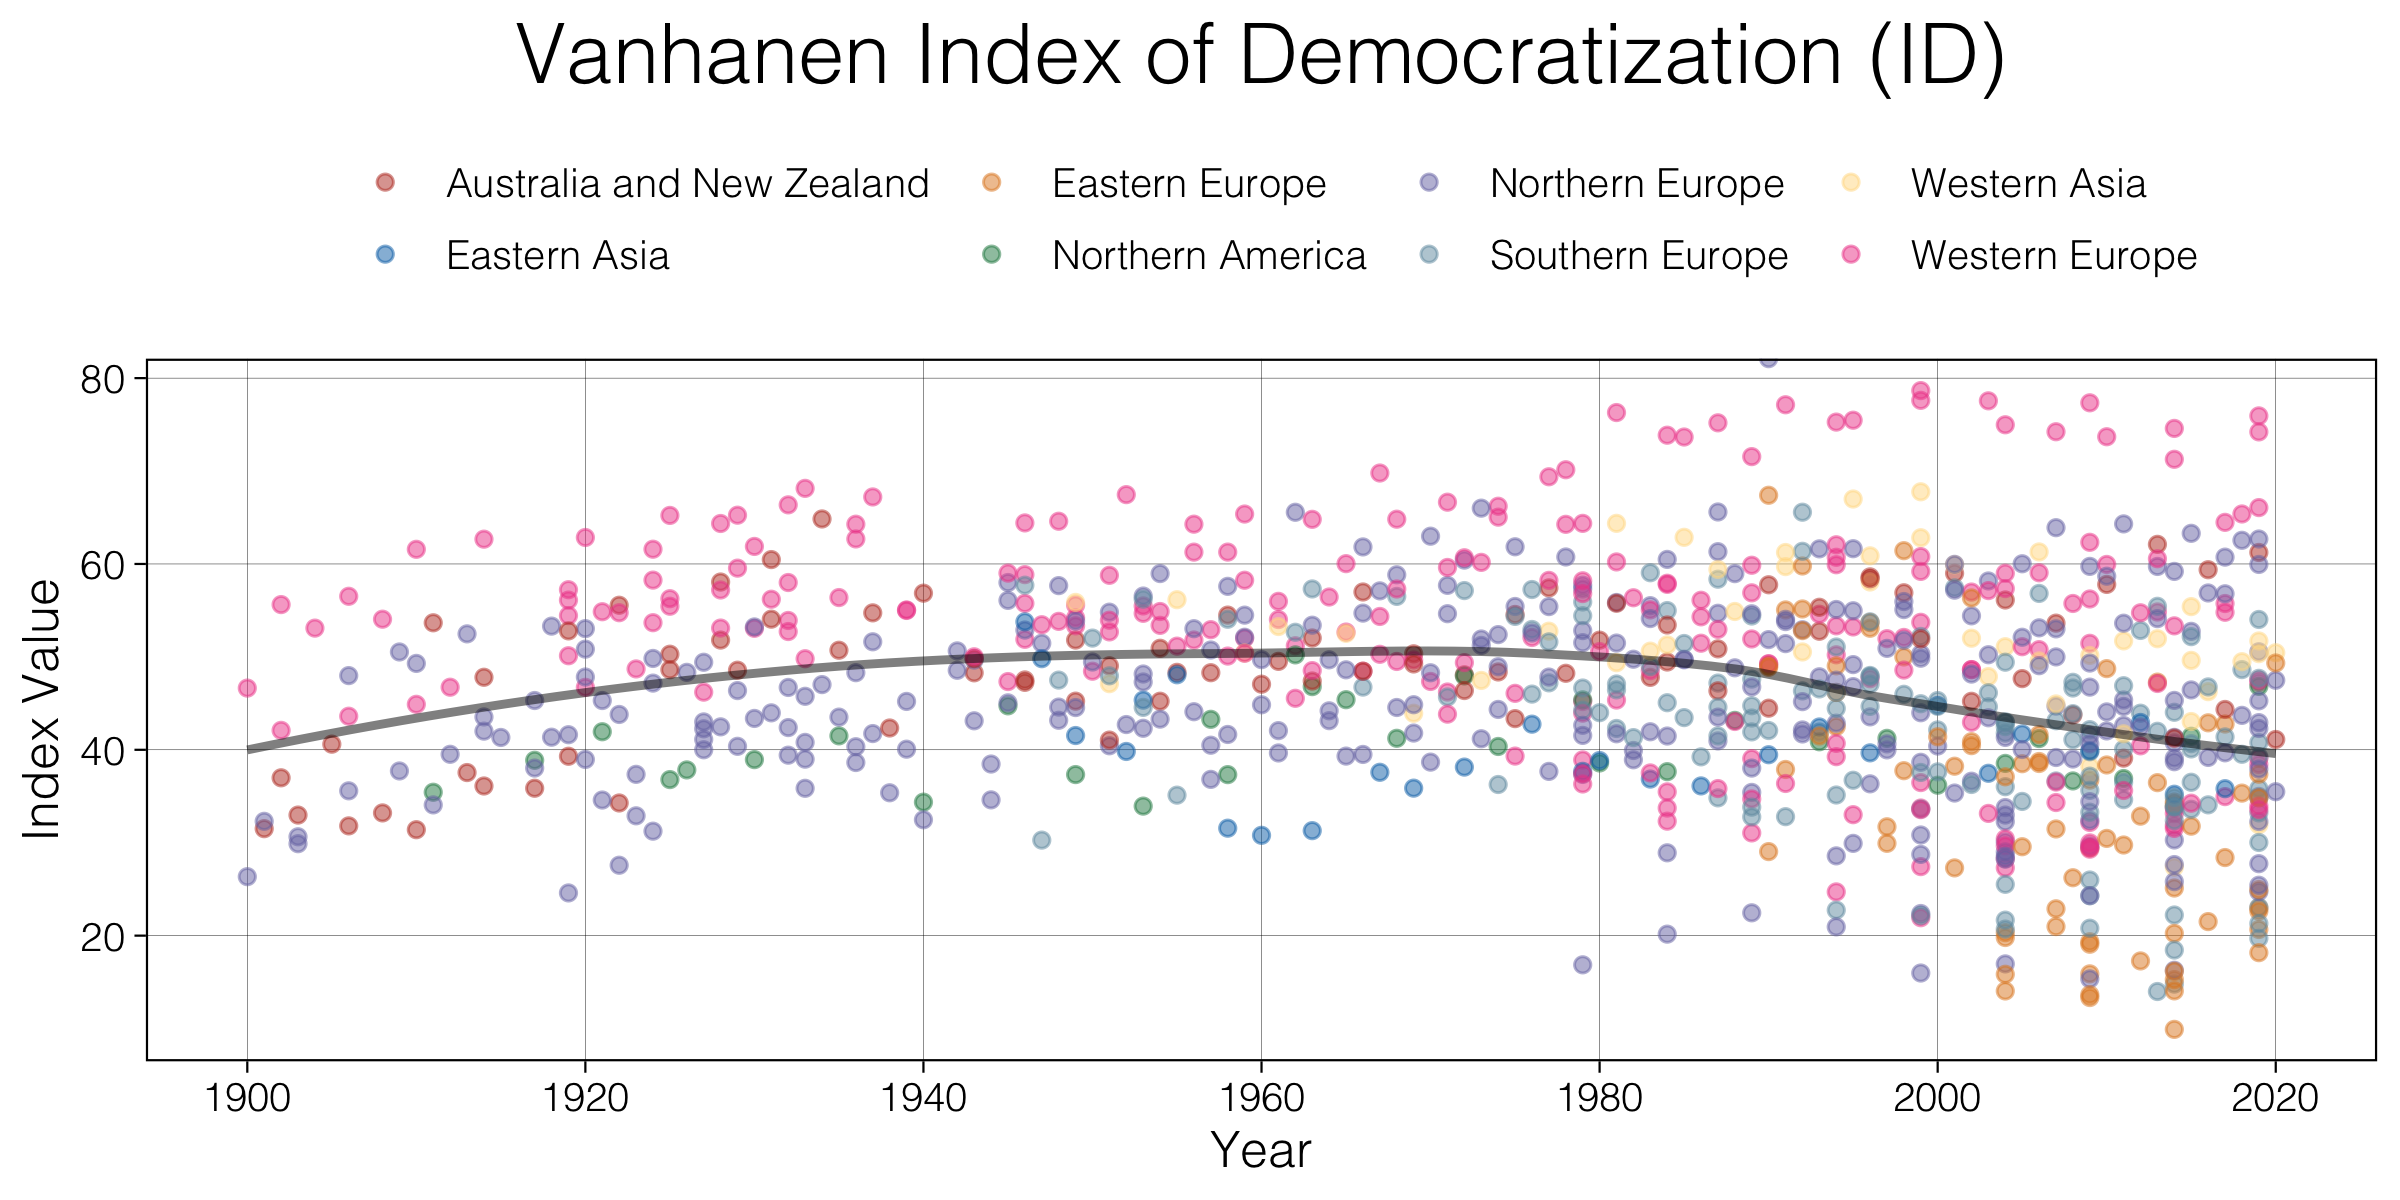
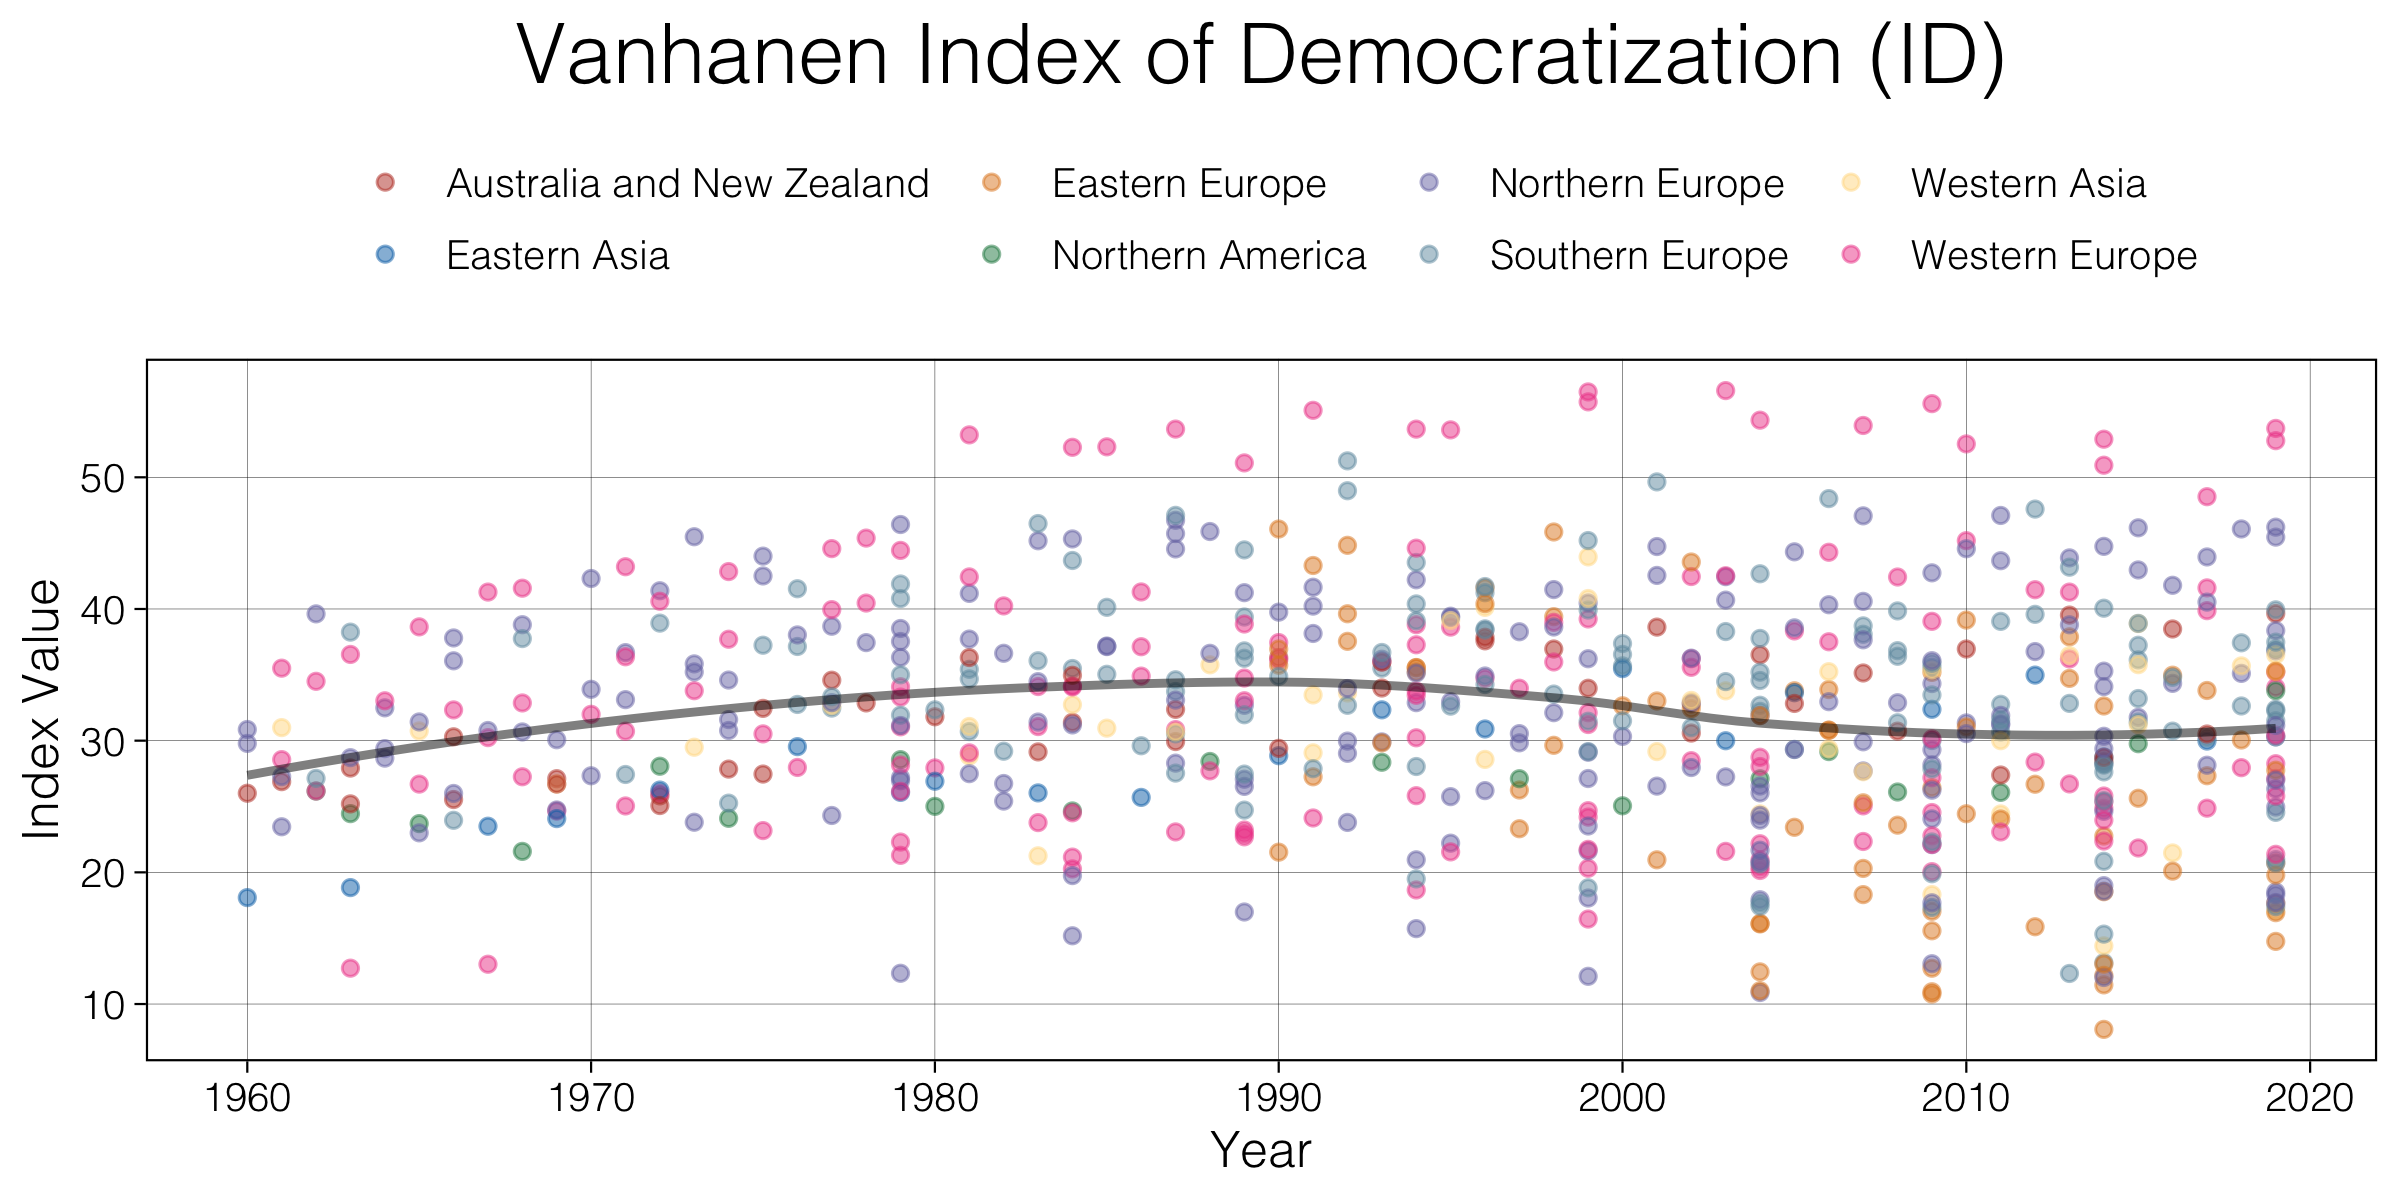
changed participation calculation with World Bank data (#9)
+ Changed definition of P
+ participation calculation correction with World Bank population data
+ minor readme revisions
+ use Github Markdown
+ file names with "-"
+ two blanc lines before new R code section

diff --git a/election-vanhanen/README.md b/election-vanhanen/README.md
@@ -8,7 +8,7 @@
 
 The *Index of Democratization* by Tatu Vanhanen is a measure that uses party competition (*C*) and voter participation or turnout (*P*) to express the democratic condition of a state.
 
-*C* is calculated by subtracting the percentage vote share of the largest party from 100, while *P* is the electoral participation. Both values can be calculated for every election.
+*C* is calculated by subtracting the percentage vote share of the largest party from 100, while *P* is the electoral participation, measured as the percentage value from the proportion of people voting divided by the total population. Both values can be calculated for every election.
 
 The index is defined as:
 
